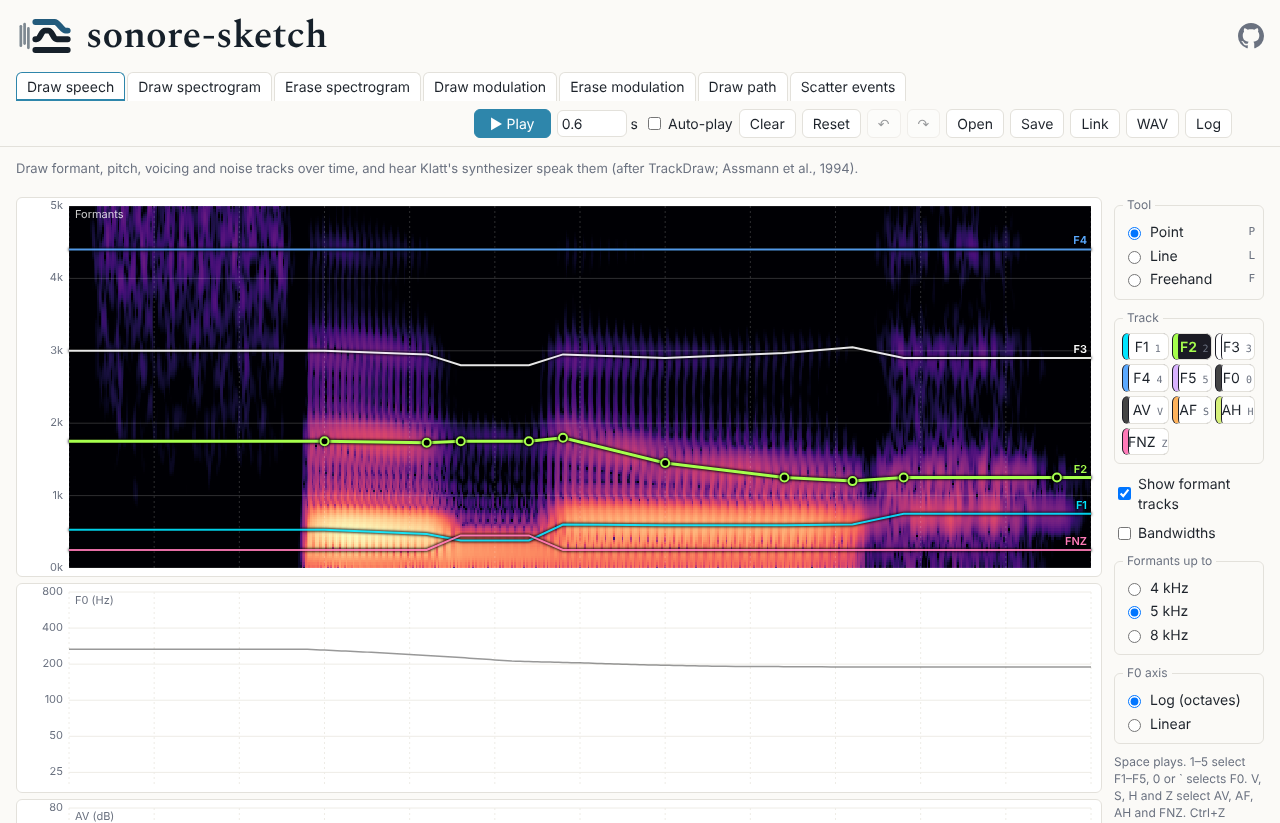
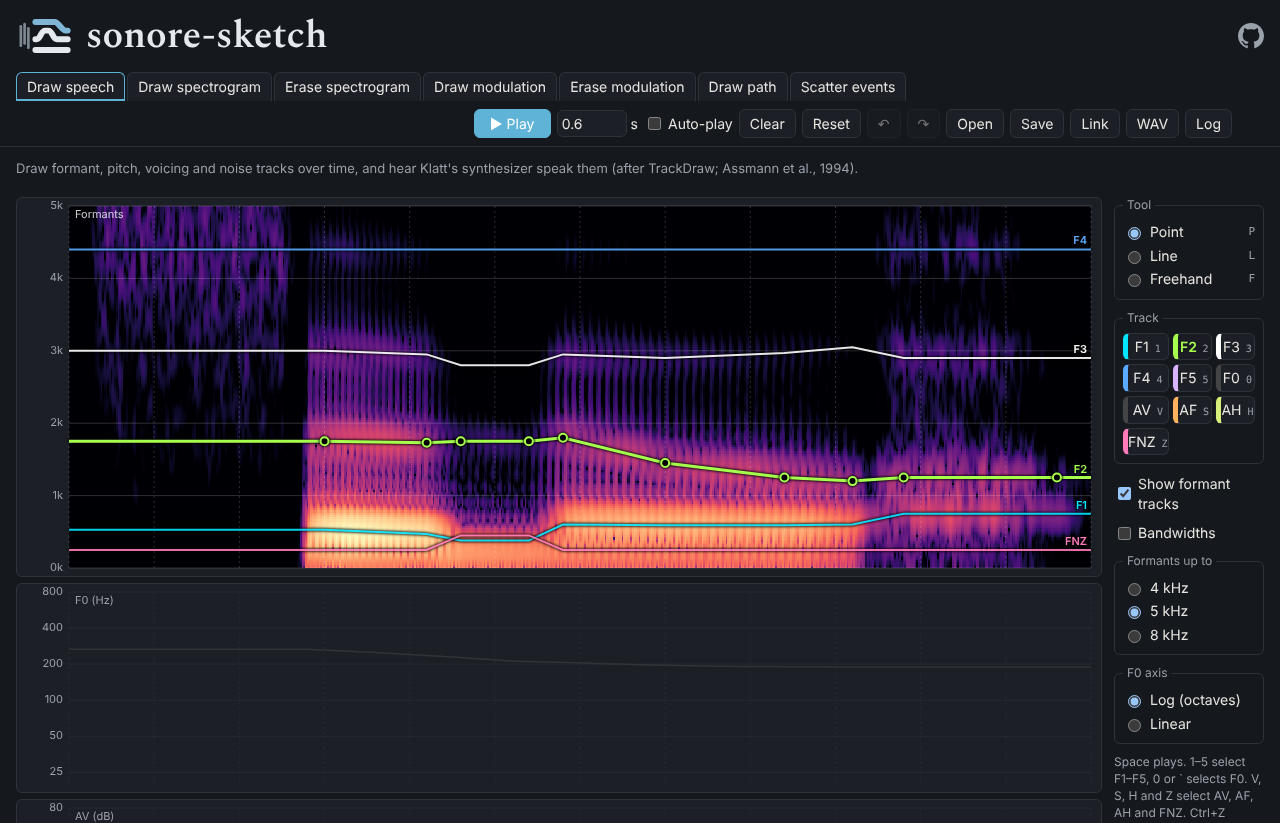
README screenshots: Draw speech and Draw path in the dark theme
Draw spectrogram stays light, so the README shows both themes.

Claude-Session: https://claude.ai/code/session_01VRBdSnmmHXjqBvDKgkQQJ7

diff --git a/tools/make_screenshots.py b/tools/make_screenshots.py
@@ -1,8 +1,9 @@
 """Take the README's screenshots: Draw speech, Draw spectrogram and Draw path.
 
 Each tab is shown as it opens (its example), 1280 × 823, with the local
-engine, and saved to docs/screenshots/. Retake them when the header, the
-toolbar or a tab's example changes.
+engine, and saved to docs/screenshots/. Draw speech and Draw path are taken
+in the dark theme and Draw spectrogram in the light one, so the README shows
+both. Retake them when the header, the toolbar or a tab's example changes.
 
     pip install -e . playwright
     python tools/make_screenshots.py
@@ -24,7 +25,11 @@ from playwright.sync_api import sync_playwright
 
 ROOT = Path(__file__).resolve().parents[1]
 SETTLE_S = 12
-SHOTS = {"tracks": "draw-speech.png", "painted": "draw-spectrogram.png", "paths": "draw-path.png"}
+SHOTS = {
+    "tracks": ("draw-speech.png", "dark"),
+    "painted": ("draw-spectrogram.png", "light"),
+    "paths": ("draw-path.png", "dark"),
+}
 
 
 def free_port() -> int:
@@ -44,8 +49,8 @@ def main() -> None:
         time.sleep(2)
         with sync_playwright() as p:
             browser = p.chromium.launch(executable_path=args.chromium)
-            for tab, name in SHOTS.items():
-                page = browser.new_page(viewport={"width": 1280, "height": 823})
+            for tab, (name, theme) in SHOTS.items():
+                page = browser.new_page(viewport={"width": 1280, "height": 823}, color_scheme=theme)
                 page.goto(f"http://127.0.0.1:{port}/?engine=local")
                 page.wait_for_function("!document.querySelector('#play').disabled", timeout=120_000)
                 page.click(f"button[data-tab={tab}]")
